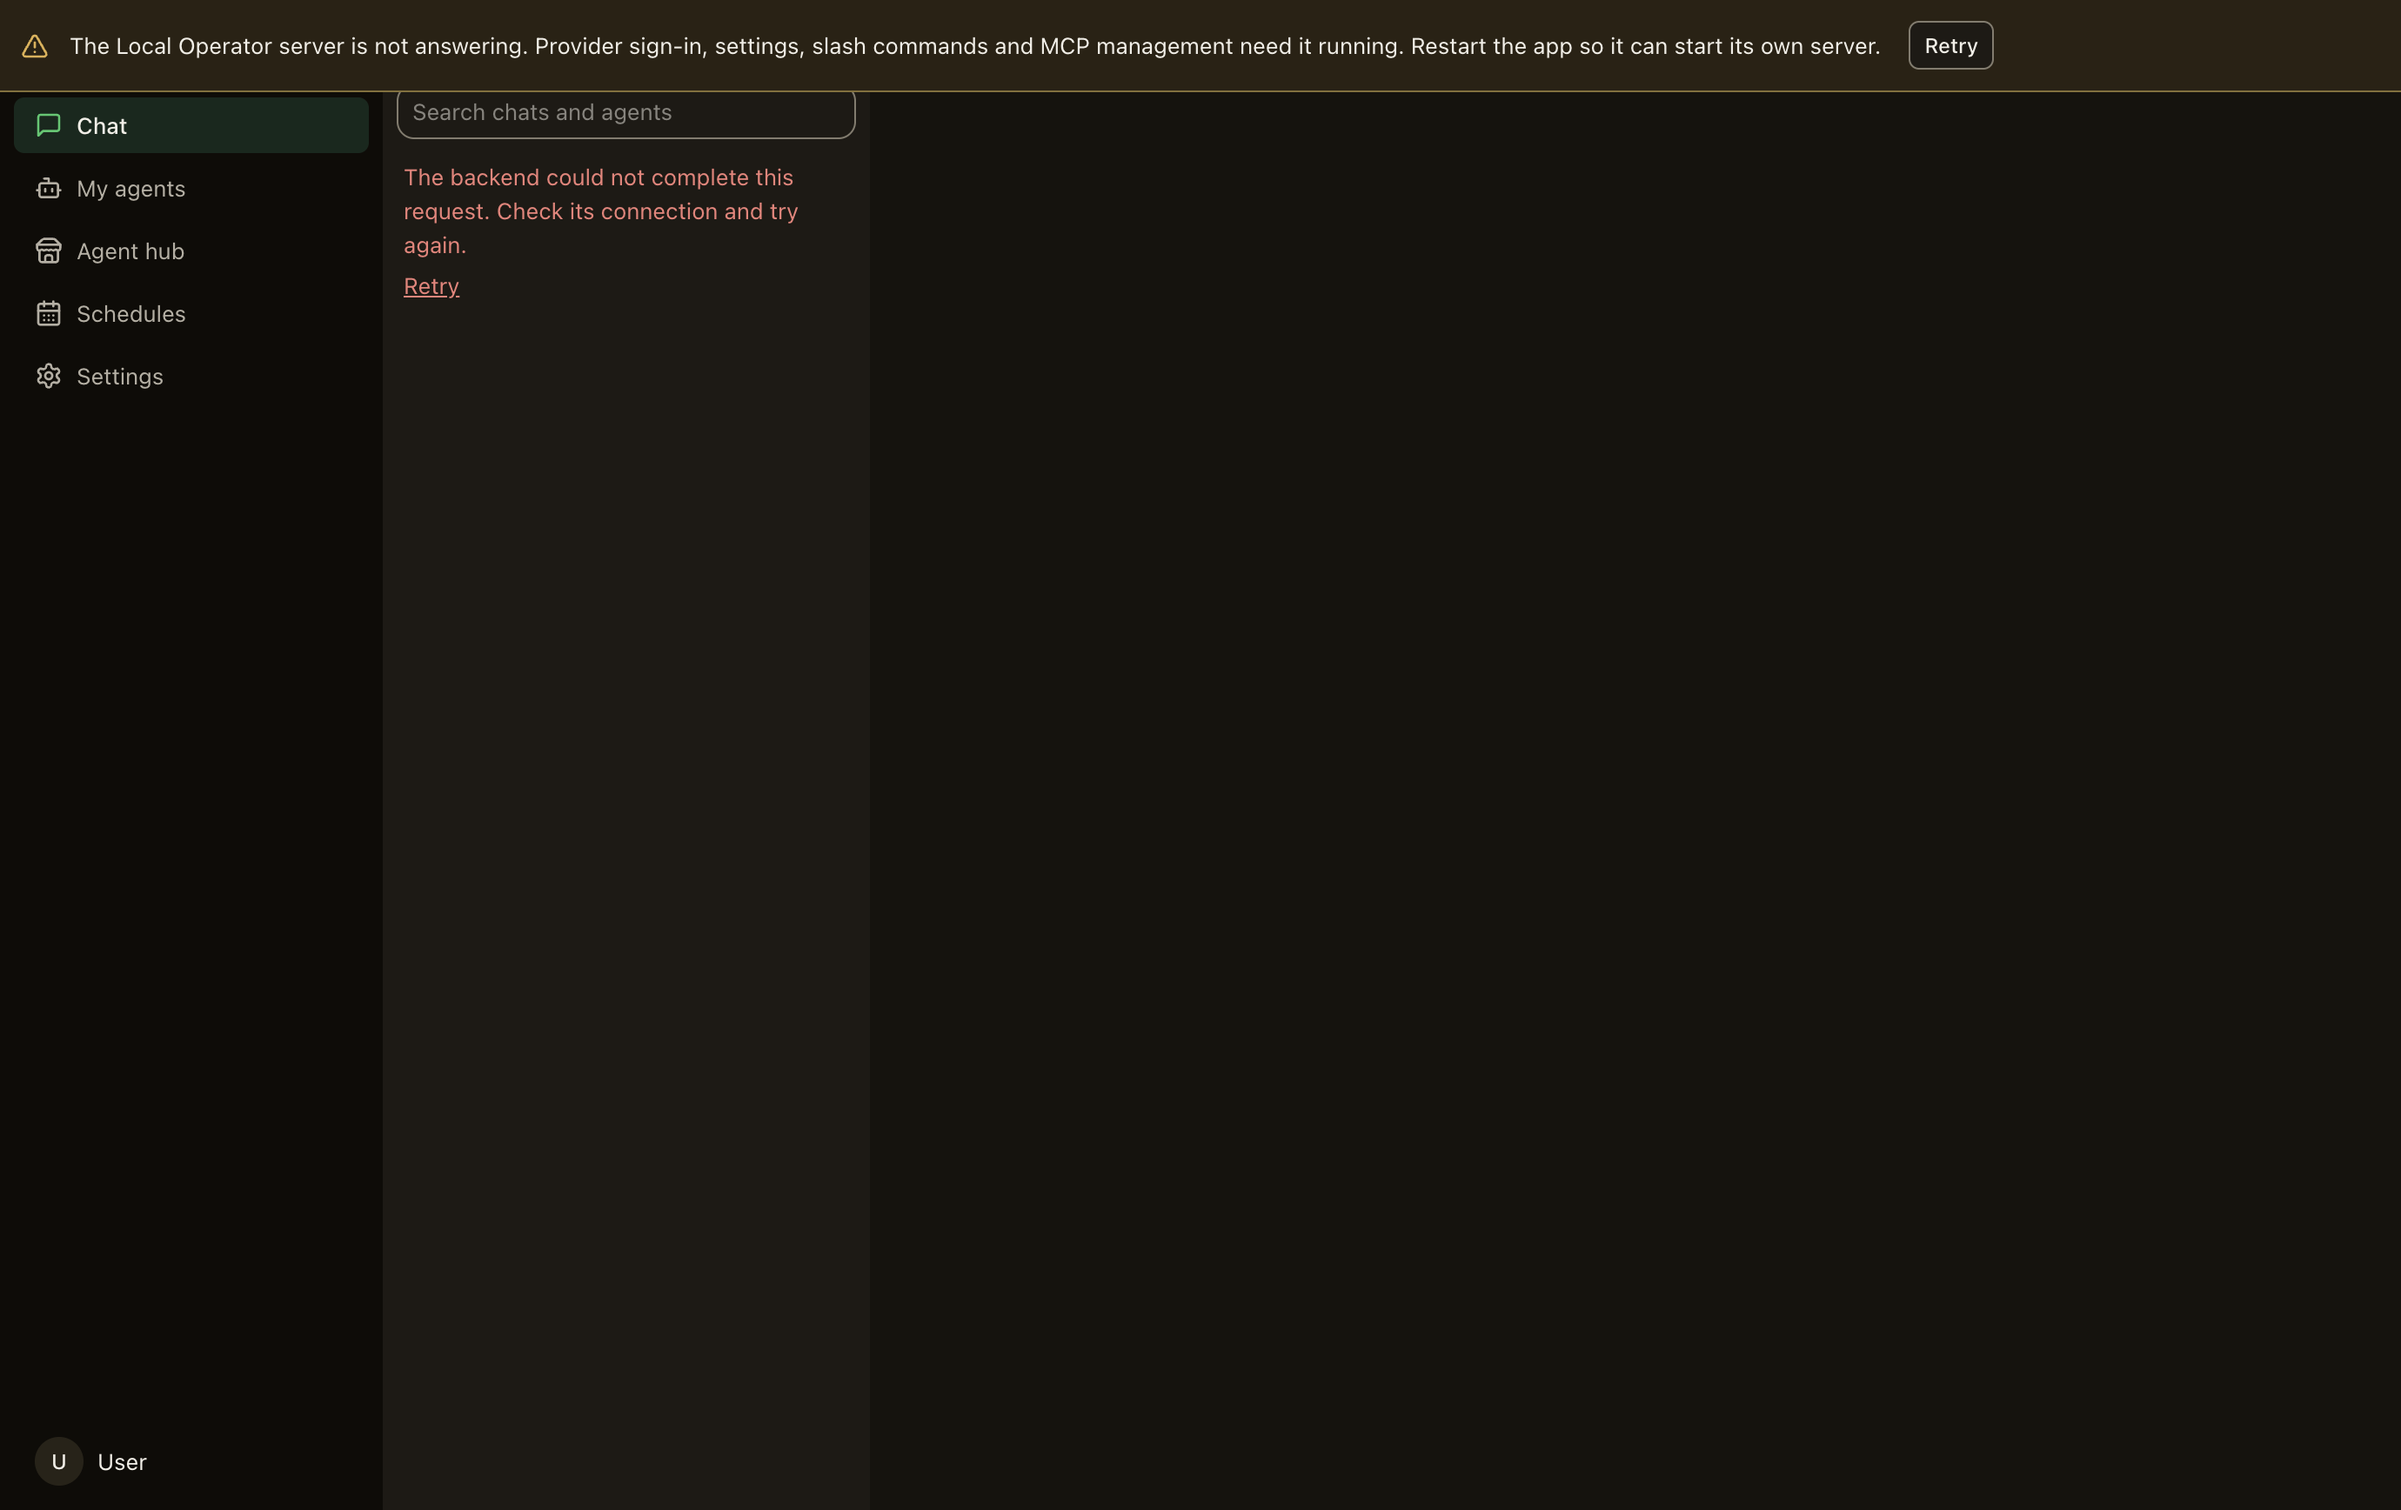
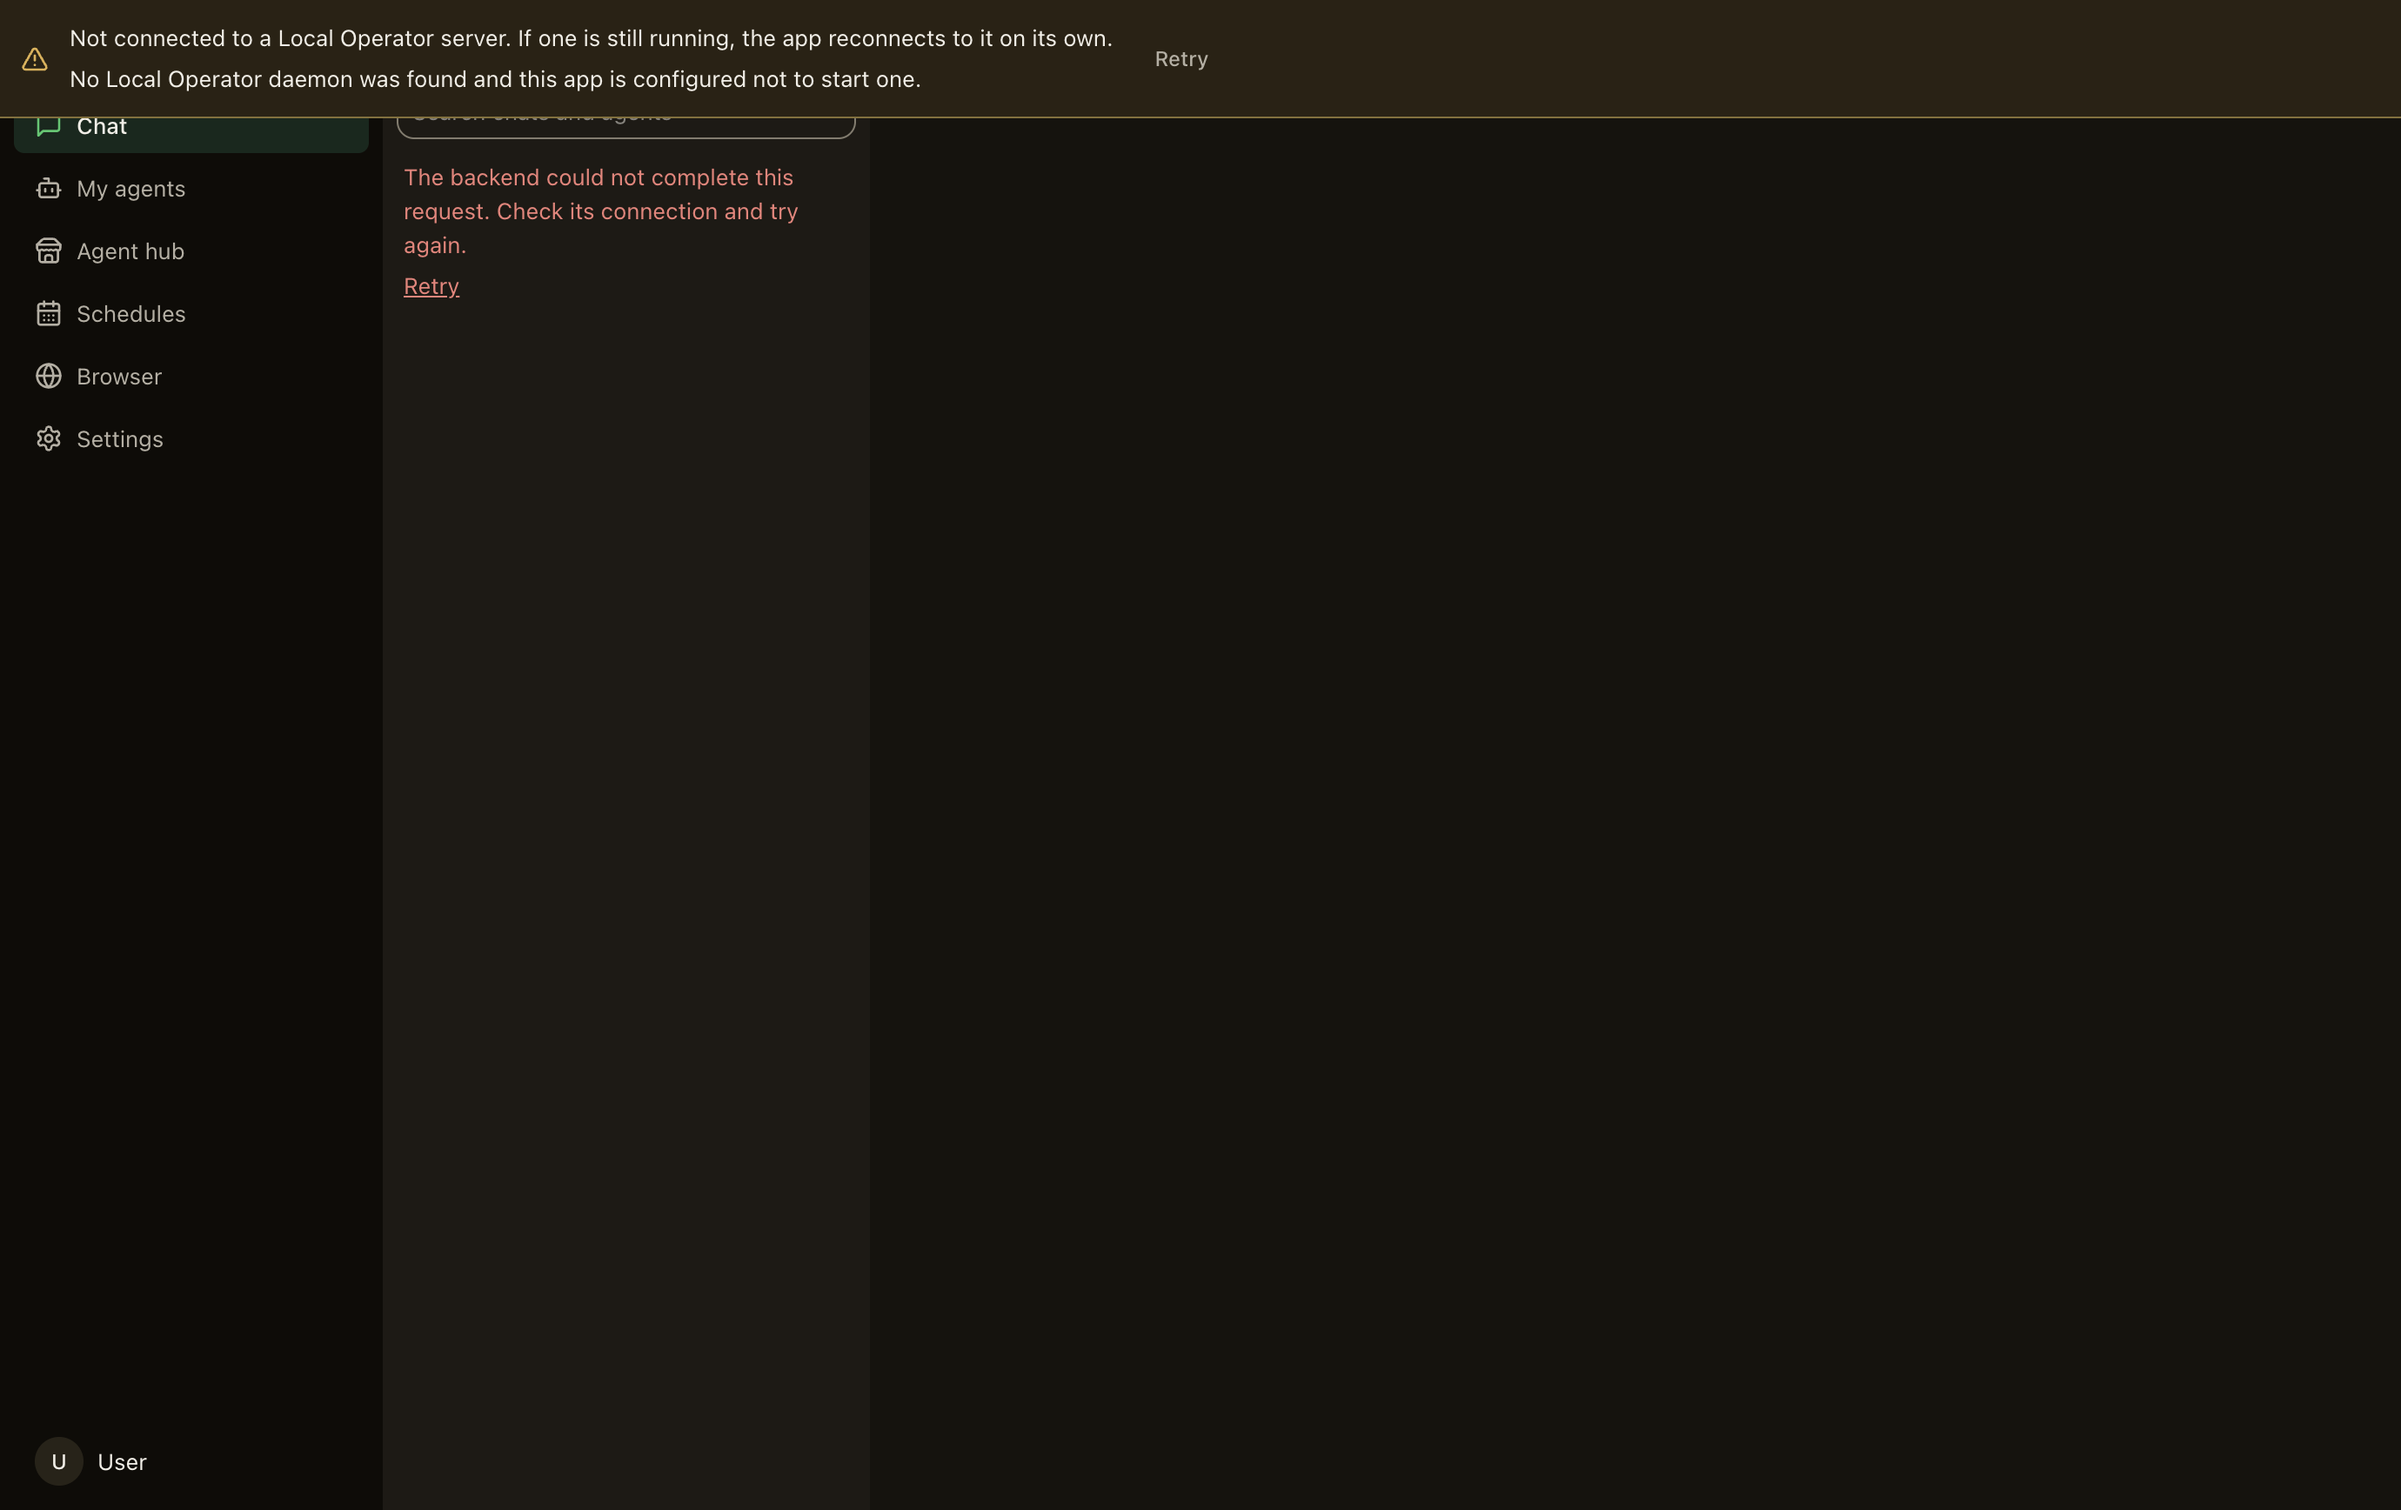
docs(evidence): re-take the driver pair at this head, and re-stamp the manifest
The pair committed before the merge was captured on a tree that did not yet carry
`#177`'s browser surface: `magick compare -metric AE` against this head reports
126,564 differing pixels in `chat-dark.png` (2.64% of the frame) and 126,576 in
`chat-light.png`, and the difference is content rather than rendering — the rail
gained a `Browser` item between `Schedules` and `Settings`, and the connectivity
banner reads a rewritten sentence. A frame captioned as current that no longer
shows the app's own rail is exactly the kind of stale evidence this harness exists
to make impossible, so the pair is re-taken with the documented command and
re-hashed in the README rather than left standing.

Two claims in that README are corrected against measurement rather than left as
they were. `chat-light.png` is NOT byte-stable across runs: twelve `--scene states`
runs (six per build, load averages 96-124) gave it as 92986 B eight times and
92980 B four times, differing in 12 pixels of edge antialiasing on the sidebar's
search field, while `chat-dark.png` was identical in all twelve. The earlier
sentence generalised two runs into a claim about every run; it is now the measured
spread, and the limits list names the light hash as one of two forms. The pin
paragraph said the run "fails rather than capturing" on an unpinned runtime, which
was true of the exit code and false of the directory; the run now refuses before
its first boot, so the sentence and the code agree.
[…]

diff --git a/docs/evidence/renderer-driver/README.md b/docs/evidence/renderer-driver/README.md
@@ -16,9 +16,20 @@ the app at a port verified dead, which is why every frame here is safe to publis
 
 ```
 Electron 44.3.0
-e68f3f6a94b00f289d919d02c507588dfa79fc62b8b38b070ba158fe351902ee  chat-dark.png    88656 B
-e980ca494703fe44506a6384def29b27341f2cf996ec6a211e9d4efaf082fb50  chat-light.png   88323 B
+43a626a818d55456d1d87c133e35f6ac66b597d242ae8d1a64e5daf76b35340b  chat-dark.png    93231 B
+bd7c93e17ed1ef163cc5711b949618b850caec2df1142a0336b341cc2e50cc6e  chat-light.png   92986 B
 ```
+
+**This pair was RE-TAKEN, because the pair it replaced had gone stale.** The
+frames first committed here were captured before `#177` (the browser tab) merged,
+and that PR changed this very screen: the rail gained a `Browser` item between
+`Schedules` and `Settings`, and the connectivity banner's sentence was rewritten.
+Measured against the old pair at the merged head, `magick compare -metric AE`
+reports **126,564 differing pixels** (2.64% of the frame) in `chat-dark.png` and
+126,576 in `chat-light.png` — a rail entry and a banner sentence, not a rendering
+wobble. A caption that still called those frames "the merged tree" would have been
+wrong, so they were re-captured with the documented command at the merge that
+brought `#177` in, and re-hashed above, rather than left standing.
 
 Those hashes are worth comparing against a run of your own, **on the same
 Electron version** — the version is printed by the run itself
@@ -28,14 +39,35 @@ because a hash without its runtime is not a checkable claim: 35.5.1 renders the
 same window as a 1380x**872** viewport, so a 35.x capture cannot match these
 bytes. An earlier revision of this pair was exactly that mistake — 35.x frames
 with a README that told a reader on 44.3.0 to compare hashes against them — and
-the run now fails rather than capturing on a runtime the branch does not pin,
-which is why a worktree inheriting a stale shared `node_modules` cannot quietly
-reproduce the defect.
+the run now **refuses before its first boot** on a runtime the branch does not
+pin: `[refusing] this tree is not on the pinned runtime …`, exit 1, nothing
+booted and no frame written. A worktree inheriting a stale shared `node_modules`
+therefore cannot populate a frames directory at all, rather than populating one
+it later disowns with an exit code.
 
-On the pinned install the pair is byte-stable: two consecutive `--scene states`
-runs produced identical bytes for **both** frames. That is not left to
-`capturePage()` behaving itself — the harness asserts it, and each half of the
-assertion has a defect behind it from an earlier round:
+### Which of these two hashes is checkable, and which is one of two
+
+`chat-dark.png` is byte-stable: twelve `--scene states` runs taken while this pair
+was being re-cut — six on the pre-hardening build and six on the shipped one, at
+load averages of 96-124 — produced the same 93231 bytes every time.
+`chat-light.png` is **not**, and the earlier sentence here ("two consecutive runs
+produced identical bytes for both frames") generalised a two-run observation into
+a claim a twelve-run measurement falsifies. Across those twelve runs the light
+frame came out in two byte-forms: 92986 B (eight runs) and 92980 B (four), which
+differ in **12 pixels** (`magick compare -metric AE`, 2.5e-6 of the frame)
+confined to the rounded edges of the sidebar's search field and one glyph edge.
+Both forms are the same screen in the same palette from the same build; neither is
+a mid-transition frame, which is what the guards below are for — and neither is
+root-caused here, so quote the dark hash if you want a claim that holds, and treat
+the light one as one of two forms until somebody explains the twelve pixels.
+
+The in-run guarantee is separate from that cross-run question, and this is what
+the harness actually asserts, each half with a defect behind it from an earlier
+round:
+
+The harness does not leave that to `capturePage()` behaving itself — it asserts the
+in-run half of it, and each half of the assertion has a defect behind it from an
+earlier round:
 
 - **The frame must be one the app is holding.** The theme verb waits out the
   rail's `transition-colors duration-fast` (120ms) and now requires three
@@ -45,6 +77,30 @@ assertion has a defect behind it from an earlier round:
   in `chat-light.png` with the rail's active pill at `srgb(122,133,124)` — 46% of
   the way from the dark `srgb(26,40,30)` to the settled `srgb(233,241,233)` — in
   a run whose verb had answered `timedOut: false` after 175ms.
+
+  **A settle that does not finish says which element did not settle.** The wait is
+a count of frames, so its cost is a frame interval rather than a duration, and the
+bound it gives up at was widened from 1000ms to 3000ms on that reasoning — ~20x the
+150-167ms a settle actually took across twelve runs on this machine at load
+averages of 96-124, and 25x the app's own longest transition. What it must not do
+is give up silently, so the answer carries every transition still running, with its
+target and that property's computed value at that instant. Fault-injected (bound set
+to 1ms) to prove the text is reachable, the FAIL then reads:
+
+  ```
+  [FAIL] the theme change settled before the frame
+          17ms — TIMED OUT: this frame is mid-transition and is not evidence.
+          Still running when the bound expired: color on button "Retry" = rgb(123, 117, 106)
+          | background-color on button "Retry" = rgb(165, 162, 156) | border-bottom-color on
+          button "Retry" = rgb(132, 126, 111) | … | background-color on div "" = rgb(132, 126, 111)
+  1 CHECK(S) FAILED
+  ```
+
+  Before that change the same FAIL said only `— TIMED OUT: this frame is
+mid-transition and is not evidence`, which names no element and leaves a reader
+unable to tell a never-ending animation from a busy machine. Seventeen transitions
+were running 17ms into a theme change, which is the shape of the measurement that
+set the bound.
 - **The frame must have no transient banner on it.** A run has no backend, so the
   app raises its own error toast (`List agents request failed: 503`) on a clock
   that has nothing to do with the scene. Measured: two runs differed in the
@@ -81,10 +137,16 @@ checks, all passing):
 ```
 [PASS] the harness is driving the Electron this branch pins
         installed 44.3.0 …, pinned 44.3.0
+[PASS] the scratch backend port is dead        127.0.0.1:55118 listening=false
+[PASS] the armed launch said so on stdout
+        [dev-driver] ARMED; frames are written to …
 [PASS] the app's logs went to this run's scratch tree, not the operator's
-        [2026-09-15 03:00:50.479] [info]  Log path: …/lo-renderer-driver-…/logs
+        [2026-09-15 09:44:32.435] [info]  Log path: …/lo-renderer-driver-20303/logs
+[PASS] the app holds no connection to the renderer's built API URL (http://127.0.0.1:1111)
+        no connection
 [PASS] the renderer reports this run's frames directory
 [PASS] the renderer sees the built app, not a bare Vite page
+        … LocalOperator/0.24.0 Chrome/152.0.7977.78 Electron/44.3.0 Safari/537.36
 [PASS] window mode is headless
 [PASS] the window is never shown            visible=false focused=false minimized=false
 [PASS] the window never has focus
@@ -92,30 +154,34 @@ checks, all passing):
 [PASS] the content area is smaller than the window by the platform's chrome only
         window {"width":1380,"height":900} content {"width":1380,"height":868}
 [PASS] the theme change settled before the frame
-        163ms
+        166ms
 [PASS] the theme action changed the app's own theme state     localOperatorDark -> localOperatorLight
 [PASS] the before/after pair is the same screen at the same size
 [PASS] the before/after pair is two different renders, not one frame twice
-        chat-dark.png 88656B e68f3f6a94b00f28… vs chat-light.png 88323B e980ca494703fe44…
+        chat-dark.png 93231B 43a626a818d55456… vs chat-light.png 92986B bd7c93e17ed1ef16…
 [PASS] the pressed control received the point (hit test)      button "Agent hub"
 [PASS] pressing the rail's Agent hub button navigated the app
 [PASS] pressing the rail's Chat button navigated back, and the theme survived
+        {"route":"/chat","theme":"localOperatorLight",…}
 [PASS] every capture is a frame the app held still for, with no toast on it
-        chat-dark: held still after 2 capture(s), toast-free true, waited 3ms for toasts | chat-light: held still after 2 capture(s), toast-free true, waited 1ms for toasts | chat-light-returned: held still after 3 capture(s), toast-free true, waited 4213ms for toasts
+        chat-dark: held still after 2 capture(s), toast-free true, waited 8ms for toasts | chat-light: held still after 2 capture(s), toast-free true, waited 8ms for toasts | chat-light-returned: held still after 3 capture(s), toast-free true, waited 18ms for toasts
 [PASS] every capture wrote a PNG of the requested size
+        chat-dark: 2760x1736, 93231B | chat-light: 2760x1736, 92986B | chat-light-returned: 2760x1736, 92986B
 [PASS] no process from this run outlived its boot
-        0 processes matching lo-renderer-driver-…
+        0 processes matching lo-renderer-driver-20303
 ALL CHECKS PASSED
 ```
 
-The third capture in that line is the un-committed `chat-light-returned`, and the
-4213 ms it waited is the check doing its job in this very run: the app's own
+The third capture in that line is the un-committed `chat-light-returned`, and it is
+worth reading the toast wait as the one figure there that MOVES: 8ms and 18ms in
+this run, and **4213ms** in an earlier one where the app's own
 `List agents request failed: 503` toast arrived before that frame and the scene
-waited it out instead of committing it.
+waited it out instead of committing it (bound: 15s). That is why the frame is not
+committed here — it is a state the scene reached, not a state it claims.
 
 ## What these frames do NOT show
 
-The four limits a reader should know before quoting them:
+The five limits a reader should know before quoting them:
 
 - **Focus-dependent rendering is absent.** A `headless` window is never shown and
   cannot be focused, so nothing here is evidence about `:focus`/`:focus-visible`
@@ -129,6 +195,12 @@ The four limits a reader should know before quoting them:
   harness's isolation covers the operator's state — profile, config dir, log
   directory, backend URL — and not egress. `docs/agent-driver.md` states this
   where a reader will look for it.
+- **`chat-light.png` is one of two byte-forms, not the bytes.** Twelve runs gave
+  the light frame as 92986 B eight times and 92980 B four times, differing in 12
+  pixels of edge antialiasing on the sidebar's search field; `chat-dark.png` was
+  identical in all twelve. A reader comparing the light hash against a run should
+  expect either form until somebody explains the twelve pixels — the subsection
+  above carries the measurement.
 - **Transient toasts are excluded by construction**, so these frames say nothing
   about toast styling or placement: the scene waits for the app's toasts to clear
   and discards a capture that has one, precisely because `List agents request
